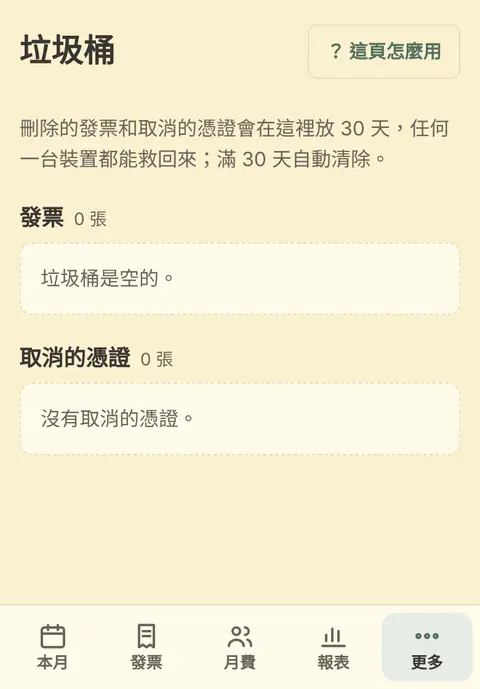
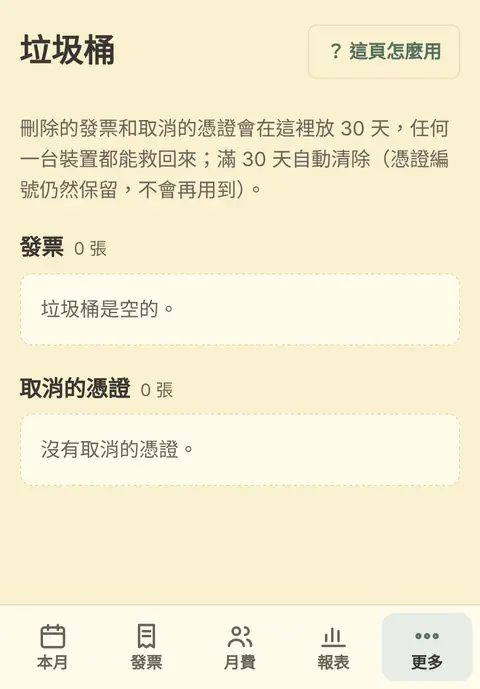
報表頁列出快用完或超支的委辦業務費項目，可從還有餘額的項目挪用（留紀錄、可還原）
Claude-Session: https://claude.ai/code/session_01Q8m2fzZpMdR6GMxaE229qM

Changed region(s): [[0.0312, 0.2438, 0.9688, 0.701], [0.2812, 0.2438, 0.5, 0.3048], [0.7812, 0.2134, 0.9375, 0.2438]]

diff --git a/app.js b/app.js
@@ -2,7 +2,7 @@ import { createFirebaseStore, createDemoStore } from './data.js';
 import { colName } from './xlsx.js';
 import { sampleData } from './sample.js';
 
-const VERSION = '2026.11.19.1';
+const VERSION = '2026.11.19.2';
 const $ = s => document.querySelector(s);
 const esc = s => String(s ?? '').replace(/[&<>"']/g, c => ({ '&': '&amp;', '<': '&lt;', '>': '&gt;', '"': '&quot;', "'": '&#39;' }[c]));
 const fmt = n => (n < 0 ? '-' : '') + Math.abs(Math.round(n || 0)).toLocaleString('en-US');
@@ -259,8 +259,8 @@ function getAlerts() {
     const cur = payrollRows(CY, CM).filter(r => r.src === '委辦費-人事費').reduce((x, r) => x + (+r.amount || 0), 0);
     if (cur > 0 && remain < cur) a.push({ go: 'staff', t: `委辦人事費剩 ${fmt(remain)} 元，不夠支付本月薪資約 ${fmt(cur)} 元，這個月要拆單。` });
   }
-  const low = wbItems().filter(k => { const b = +(N.budget || {})[k] || 0, r = b - wbUsed(k); return b > 0 && r !== 0 && r < b * .1; });
-  if (low.length) a.push({ go: 'report', t: `委辦業務費有 ${low.length} 項快用完或超支：${low.join('、')}。請在核銷前決定要從哪一項挪用。` });
+  const low = lowItems();
+  if (low.length) a.push({ go: 'report', t: `委辦業務費有 ${low.length} 項快用完或超支：${low.join('、')}。到「報表」按「補足」，從還有餘額的項目挪過去。` });
   return a;
 }
 
@@ -641,6 +641,43 @@ function earlierUnprinted(y, m) {
   for (const d of Object.values(S().months)) if (ymNum(d.y, d.m) < ymNum(y, m) && d.y === y && !d.rcptPrinted && Object.keys(d.fees || {}).length) return d.m;
   return 0;
 }
+// 委辦業務費細項：剩餘、快用完（剩不到一成）或超支的項目
+const wbLeft = k => (+(N.budget || {})[k] || 0) - wbUsed(k);
+const lowItems = () => wbItems().filter(k => { const b = +(N.budget || {})[k] || 0, r = wbLeft(k); return r < 0 || (b > 0 && r !== 0 && r < b * .1); });
+const wbMoves = () => (N.wbMoves || []).filter(x => x.y === CY);
+// 挪用預算：從還有餘額的項目轉到不夠的項目，業務費總額不變
+function moveDialog(to) {
+  const items = wbItems(), dflt = to || lowItems().sort((a, b) => wbLeft(a) - wbLeft(b))[0] || items[0];
+  ask('挪用委辦業務費', `<div class="mvgrid"><label class="mv-to">轉入（不夠用的項目）<select id="mvTo">${items.map(k => `<option value="${esc(k)}" ${k === dflt ? 'selected' : ''}>${esc(k)}（剩 ${fmt(wbLeft(k))}）</option>`).join('')}</select></label>
+    <div class="mv-from"><div style="font-weight:700;margin-bottom:6px">從哪一項轉出<small class="meta" style="margin-left:8px">照餘額多到少排</small></div><div id="mvFrom" class="list"></div></div>
+    <label class="mv-amt">挪用金額（元）<input type="number" id="mvAmt" inputmode="numeric" min="1"></label>
+    <p class="err mv-err" id="mvErr" hidden></p>
+    <p class="hint mv-hint" style="font-size:14px;margin:0">業務費總額不變，只是兩項的預算互相調整。挪用紀錄留在「報表 → 委辦業務費細項」，可以還原。</p></div>`, () => {
+    const t = $('#mvTo').value, f = (document.querySelector('[name=mvFrom]:checked') || {}).value, a = Math.round(+$('#mvAmt').value || 0);
+    const err = m => { $('#mvErr').textContent = m; $('#mvErr').hidden = false; return false };
+    if (!f) return err('請選要從哪一項轉出。');
+    if (a <= 0) return err('請輸入挪用金額。');
+    if (a > wbLeft(f)) return err(`${f} 只剩 ${fmt(wbLeft(f))} 元，不夠轉出 ${fmt(a)} 元。`);
+    const B = { ...(N.budget || {}) }; B[f] = (+B[f] || 0) - a; B[t] = (+B[t] || 0) + a;
+    const rec = { id: Date.now().toString(36), y: CY, date: TODAY, from: f, to: t, amount: a };
+    store.setSettings({ budget: B, wbMoves: [...(N.wbMoves || []), rec] }).catch(fail());
+    toast(`已從${f}挪 ${fmt(a)} 元到${t}。`, () => undoMove(rec.id));
+  }, '挪用');
+  const fill = () => {
+    const t = $('#mvTo').value, need = Math.max(0, -wbLeft(t));
+    const src = items.filter(k => k !== t && wbLeft(k) > 0).sort((a, b) => wbLeft(b) - wbLeft(a));
+    $('#mvFrom').innerHTML = src.map((k, i) => `<label class="row check" style="margin:0"><input type="radio" name="mvFrom" value="${esc(k)}" ${i === 0 ? 'checked' : ''}><span class="main">${esc(k)}</span><span class="amount">剩 ${fmt(wbLeft(k))}</span></label>`).join('') || '<div class="row"><div class="main meta">其他項目都沒有餘額了。</div></div>';
+    const pick = () => { const f = (document.querySelector('[name=mvFrom]:checked') || {}).value; $('#mvAmt').value = need && f ? Math.min(need, wbLeft(f)) : ''; $('#mvErr').hidden = true };
+    $('#mvFrom').onchange = pick; pick();
+  };
+  $('#mvTo').onchange = fill; fill();
+}
+function undoMove(id) {
+  const r = (N.wbMoves || []).find(x => x.id === id); if (!r) return;
+  const B = { ...(N.budget || {}) }; B[r.from] = (+B[r.from] || 0) + r.amount; B[r.to] = (+B[r.to] || 0) - r.amount;
+  store.setSettings({ budget: B, wbMoves: (N.wbMoves || []).filter(x => x.id !== id) }).catch(fail());
+  toast(`已還原：${r.to}的 ${fmt(r.amount)} 元還給${r.from}。`);
+}
 function report() {
   const A = annual(CY), mu = manualUntil(CY);
   const wbB = +N.wbBizTotal || 0, wbU = wbBizUsed();
@@ -662,11 +699,13 @@ function report() {
    <div class="list">${inc.map(x => `<div class="row"><div class="main"><div class="title">${x.m} 月・${esc(x.source === '縣府補助款' && x.label ? x.label : x.source)}</div>${x.note ? `<div class="meta">${esc(x.note)}</div>` : ''}</div><span class="amount">${fmt(x.amount)}</span><button type="button" class="edit" data-delincome="${x.id}">刪除</button></div>`).join('') || `<div class="row"><div class="main meta">${mu ? `${mu + 1} 月起還沒有撥款收入。` : '今年還沒有撥款收入。'}</div></div>`}</div>
    <div class="actions start"><button type="button" class="btn" id="addIncome">＋ 新增撥款收入</button></div>
   </section>
-  <details class="card pickbox"><summary>委辦業務費細項（${wbItems().length} 項）</summary>
+  ${(() => { const low = lowItems(); return low.length ? `<section><h2>委辦業務費不夠用的項目<small>按「補足」從還有餘額的項目挪過去</small></h2><div class="list">${low.map(k => { const r = wbLeft(k); return `<div class="row"><div class="main"><div class="title">${esc(k)}</div><div class="meta"><span class="${r < 0 ? 'when-warn' : ''}">${r < 0 ? `超支 ${fmt(-r)} 元` : `只剩 ${fmt(r)} 元`}</span></div></div><button type="button" class="edit" data-move="${esc(k)}">補足</button></div>` }).join('')}</div></section>` : '' })()}
+  <details class="card pickbox" ${lowItems().length || wbMoves().length ? 'open' : ''}><summary>委辦業務費細項（${wbItems().length} 項）</summary>
   ${mu ? `<p class="hint" style="font-size:14px">1–${mu} 月是補登的總數，沒有分細項；細項的「已用」要在「設定 → 委辦費預算 → 啟用前已用」填各項目 1–${mu} 月用掉的金額。</p>` : ''}
   <div class="tablewrap"><table><thead><tr><th>項目</th><th class="num">預算</th><th class="num">已用</th><th class="num">剩餘</th><th style="min-width:120px">使用率</th></tr></thead>
   <tbody>${wbItems().map(k => { const u = wbUsed(k), b = +(N.budget || {})[k] || 0, p = pct(u, b), cls = p >= 100 ? 'bad' : p >= 90 ? 'warn' : ''; return `<tr><td>${k}</td><td class="num">${fmt(b)}</td><td class="num">${fmt(u)}</td><td class="num ${b - u < 0 ? 'neg' : ''}">${fmt(b - u)}</td><td><div class="kpibar ${cls}"><i style="width:${Math.min(p, 100)}%"></i></div><span class="meta" style="margin:0">${b ? p + '%' : '—'}</span></td></tr>` }).join('')}</tbody></table></div>
-  <div class="actions start"><button type="button" class="btn" data-go="set">調整預算或挪用</button></div></details>`;
+  ${wbMoves().length ? `<div style="font-weight:700">挪用紀錄</div><div class="list">${wbMoves().slice().reverse().map(x => `<div class="row"><div class="main"><div class="title">${esc(x.from)} → ${esc(x.to)}</div><div class="meta"><span>${esc(x.date)}</span></div></div><span class="amount">${fmt(x.amount)}</span><button type="button" class="edit" data-unmove="${esc(x.id)}">還原</button></div>`).join('')}</div>` : ''}
+  <div class="actions start"><button type="button" class="btn" data-move="">挪用預算</button><button type="button" class="btn" data-go="set">調整預算</button></div></details>`;
 }
 // 補登月份另外加了哪些：列給使用者核對
 function addedNote(y) {
@@ -785,7 +824,7 @@ function set() {
   <details class="card pickbox" ${!+N.wbBizTotal ? 'open' : ''}><summary>委辦費預算（每年 1/1 依契約書輸入）</summary>
    <div class="two"><label>委辦人事費<input type="number" id="sPB" inputmode="numeric" value="${N.wbPersonBudget || ''}"></label><label>系統啟用前已用的人事費<input type="number" id="sPU" inputmode="numeric" value="${N.wbPersonUsedBefore || ''}"></label></div>
    <div class="two"><label>委辦業務費總額<input type="number" id="sBT" inputmode="numeric" value="${N.wbBizTotal || ''}"></label><label>${CY}年度行管費<input type="number" id="sAdm" inputmode="numeric" value="${N.admBudget || ''}"></label></div>
-   <p class="hint" style="font-size:14px">各細項預算加總要等於業務費總額。年中要挪用時，直接改兩個項目的預算即可。「啟用前已用」只有今年開始使用系統前已經花掉的金額要填。</p>
+   <p class="hint" style="font-size:14px">各細項預算加總要等於業務費總額。年中要挪用時，到「報表 → 委辦業務費細項」按「挪用預算」，會留下紀錄；也可以直接改兩個項目的預算。「啟用前已用」只有今年開始使用系統前已經花掉的金額要填。</p>
    <div class="tablewrap bgrid"><table><thead><tr><th>項目</th><th>預算</th><th>啟用前已用</th></tr></thead><tbody>
     ${wbItems().map((k, i) => `<tr><td>${k}</td><td><input type="number" inputmode="numeric" data-bud="${i}" value="${B[k] || ''}"></td><td><input type="number" inputmode="numeric" data-used="${i}" value="${U[k] || ''}"></td></tr>`).join('')}
    </tbody><tfoot><tr><td>細項合計</td><td id="bSum">${fmt(bsum)}</td><td></td></tr></tfoot></table></div>
@@ -822,7 +861,7 @@ const HELP = [
   { id: 'cash', t: '零用金結算', shot: 'cash', steps: ['每月兩次，到「更多 → 零用金結算」。', '清單只列主任代墊的發票，照憑證編號排列，會計可以拿著憑證依序對帳。', '按「結算到今天」。還有發票沒做憑證、憑證沒印的，會先提醒你。', '結算過的清單在下方「已結算」，可以再列印。'] },
   { id: 'staff', t: '人事費', shot: 'staff', steps: ['薪資清冊做好後，到「更多 → 人事費」。', '每位員工填這個月的金額，經費來源預設委辦費-人事費。', '委辦人事費不夠時，按那位員工的「拆單」，填委辦費付多少，其餘自動改由營運收入支應。', '按「儲存本月人事費」。生日禮金、代班薪資、年終獎金在下方新增。'] },
   { id: 'fee', t: '月費與收據', shot: 'fee', steps: ['名單沿用上個月，月費和餐點費依上課天數和生日自動算。餐點費看孩子到當月 1 號滿幾個月：未滿 6 個月不收、未滿 1 歲 300 元、滿 1 歲 600 元。', '有延托、保險、退費的孩子，按「修改」填寫；退費填負數。', '按「列印收據」，每位孩子一頁三聯。收據號碼在列印時確定，印過的不會再變；每年 1 月從 001 號重新開始。', '協會借用的收據號碼，按「協會借用號碼」標記，之後會跳過。', '收據日期在頁面最上面，預設每月 15 號（遇週末順延），每個月可以自己改；預設幾號在「設定 → 收據」改，優化比、契約價金也可以設不同的預設日。', '有幾張要用不同的日期：按「勾選改日期」，像發票一樣勾選收據，在下方選日期後按「套用日期」。', '頁面下方「請款收據」：1、4、7、10 月會出現優化比（繳款人預設屏東縣政府；1 月是前一年第四期），1、2、7、10 月會出現契約價金（繳款人預設協會）。按「填寫」確認金額、貼上摘要，再按「列印」。其他要開的收據按「＋ 其他收據」。'] },
-  { id: 'report', t: '報表', shot: 'report', steps: ['「年度經費報表」照每月報表的格式，自動算每月收入、支出、損益，和委辦費、行管費用了幾 %。', '優化比、提升托育品質、縣府補助款到帳時，按「＋ 新增撥款收入」；補助款要選期別（第一期、第二期⋯），每一期各一列。', '按「列印（A4 橫式）」印一頁；按「匯出 Excel」下載和原本格式一樣的 Excel（標楷體、顏色、公式）。', '系統啟用前的月份，按「從 Excel 補登」選原本的經費明細檔，核對數字後按「補登」。補登之後才在系統新增的憑證、撥款收入會自動加上去；Excel 那個月沒有月費的，用系統算的月費。要交縣府時按「產出核銷報表」。'] },
+  { id: 'report', t: '報表', shot: 'report', steps: ['「年度經費報表」照每月報表的格式，自動算每月收入、支出、損益，和委辦費、行管費用了幾 %。', '優化比、提升托育品質、縣府補助款到帳時，按「＋ 新增撥款收入」；補助款要選期別（第一期、第二期⋯），每一期各一列。', '按「列印（A4 橫式）」印一頁；按「匯出 Excel」下載和原本格式一樣的 Excel（標楷體、顏色、公式）。', '委辦業務費有項目快用完或超支時，報表頁會列出「不夠用的項目」，按「補足」選要從哪一項轉出、金額，業務費總額不變；挪用紀錄可以還原。', '系統啟用前的月份，按「從 Excel 補登」選原本的經費明細檔，核對數字後按「補登」。補登之後才在系統新增的憑證、撥款收入會自動加上去；Excel 那個月沒有月費的，用系統算的月費。要交縣府時按「產出核銷報表」。'] },
   { id: 'trash', t: '刪錯了怎麼辦', shot: 'trash', steps: ['刪除的發票、取消的憑證會在「更多 → 垃圾桶」放 30 天。', '按「救回」就回到原本的地方，任何一台裝置都能救。', '剛刪掉時，畫面下方的提示也有「復原」可以按。', '憑證做錯想沿用同一個編號：先取消憑證，再到垃圾桶按「永久刪除」，下一張新做的憑證就會用這個編號。'] },
   { id: 'backup', t: '備份與還原', shot: 'backup', steps: ['建議每個月到「更多 → 設定 → 備份」按「下載備份」，存到電腦。', '萬一資料被改錯，按「從備份還原」，選那個備份檔。', '還原前會先自動下載一份目前的資料，還原錯了還能再還原回來。', '備份之後才新增的資料不會被刪掉。', '管理者每月 25 號起會看到提醒，到「設定 → 備份」按「一次下載四間」，會下載四間的每月報表（Excel）和備份（還原用）兩個檔案。還原時選這個四間的備份檔也可以，會自動取出目前這間。'] },
   { id: 'install', t: '安裝成 App', steps: ['iPhone、iPad：用 Safari 開啟，按分享 →「加入主畫面」。', 'Android：用 Chrome 開啟，按右上選單 →「加到主畫面」或「安裝應用程式」。', '電腦（Windows、Mac、Chromebook）：用 Chrome 或 Edge 開啟，按網址列右邊的安裝圖示。', '從 LINE 點開的話，請先選「用預設瀏覽器開啟」，登入才會留下來。'] },
@@ -1612,6 +1651,8 @@ document.addEventListener('click', e => {
       toast(`已永久刪除，下一張${v.m} 月憑證會用 ${v.no}。`);
     }, '永久刪除', 'btn danger');
   }
+  if (t.dataset.move != null) return moveDialog(t.dataset.move);
+  if (t.dataset.unmove) { const r = (N.wbMoves || []).find(x => x.id === t.dataset.unmove); if (!r) return; return ask('還原挪用', `<p class="hint">把${esc(r.to)}的 ${fmt(r.amount)} 元還給${esc(r.from)}？${wbLeft(r.to) < r.amount ? `還原後${esc(r.to)}會超支 ${fmt(r.amount - wbLeft(r.to))} 元。` : ''}</p>`, () => undoMove(r.id), '還原') }
   if (t.dataset.restorei) { store.update('invoices', t.dataset.restorei, { deleted: false, deletedAt: null }).catch(fail()); toast('已救回這張發票。'); return }
   if (t.dataset.restorev) {
     const v = S().vouchers.find(x => x.no === t.dataset.restorev);

diff --git a/style.css b/style.css
@@ -355,3 +355,14 @@ input[type=date]{font:16px var(--font);padding:8px;border:1px solid var(--line);
 .grph .title{font-weight:700;font-size:17px}
 .grph>.edit{margin-left:auto}
 .grph+.row{border-top:0}
+
+/* 挪用委辦業務費：直放一欄；手機橫放左右兩欄，按鈕不用捲 */
+.mvgrid{display:flex;flex-direction:column;gap:10px}
+#mvFrom{max-height:min(34vh,320px);overflow:auto}
+@media (max-height:700px){#mvFrom{max-height:26vh}}
+@media (min-width:640px) and (max-height:520px){
+  #dlgAsk:has(.mvgrid){width:min(760px,calc(100vw - 32px));max-width:none}
+  .mvgrid{display:grid;grid-template-columns:1fr 1fr;grid-template-areas:"to from" "amt from" "err from" "hint from";gap:8px 16px;align-items:start}
+  .mv-to{grid-area:to}.mv-from{grid-area:from}.mv-amt{grid-area:amt}.mv-err{grid-area:err}.mv-hint{grid-area:hint}
+  #mvFrom{max-height:44vh}
+}

diff --git a/sw.js b/sw.js
@@ -1,5 +1,5 @@
 // 先問網站有沒有新版（不用瀏覽器暫存；3 秒內沒回應就用存好的版本），讓離線也能打開
-const CACHE = 'gongtuo-fund-2026.11.19.1';
+const CACHE = 'gongtuo-fund-2026.11.19.2';
 const SHELL = ['./', 'index.html', 'style.css', 'app.js', 'data.js', 'sample.js', 'xlsx.js', 'manifest.webmanifest', 'icons/icon-192.png', 'icons/icon-180.png', 'icons/icon-512.png'];
 self.addEventListener('install', e => { e.waitUntil(caches.open(CACHE).then(c => c.addAll(SHELL.map(u => new Request(u, { cache: 'reload' }))))); self.skipWaiting(); });
 self.addEventListener('activate', e => {
